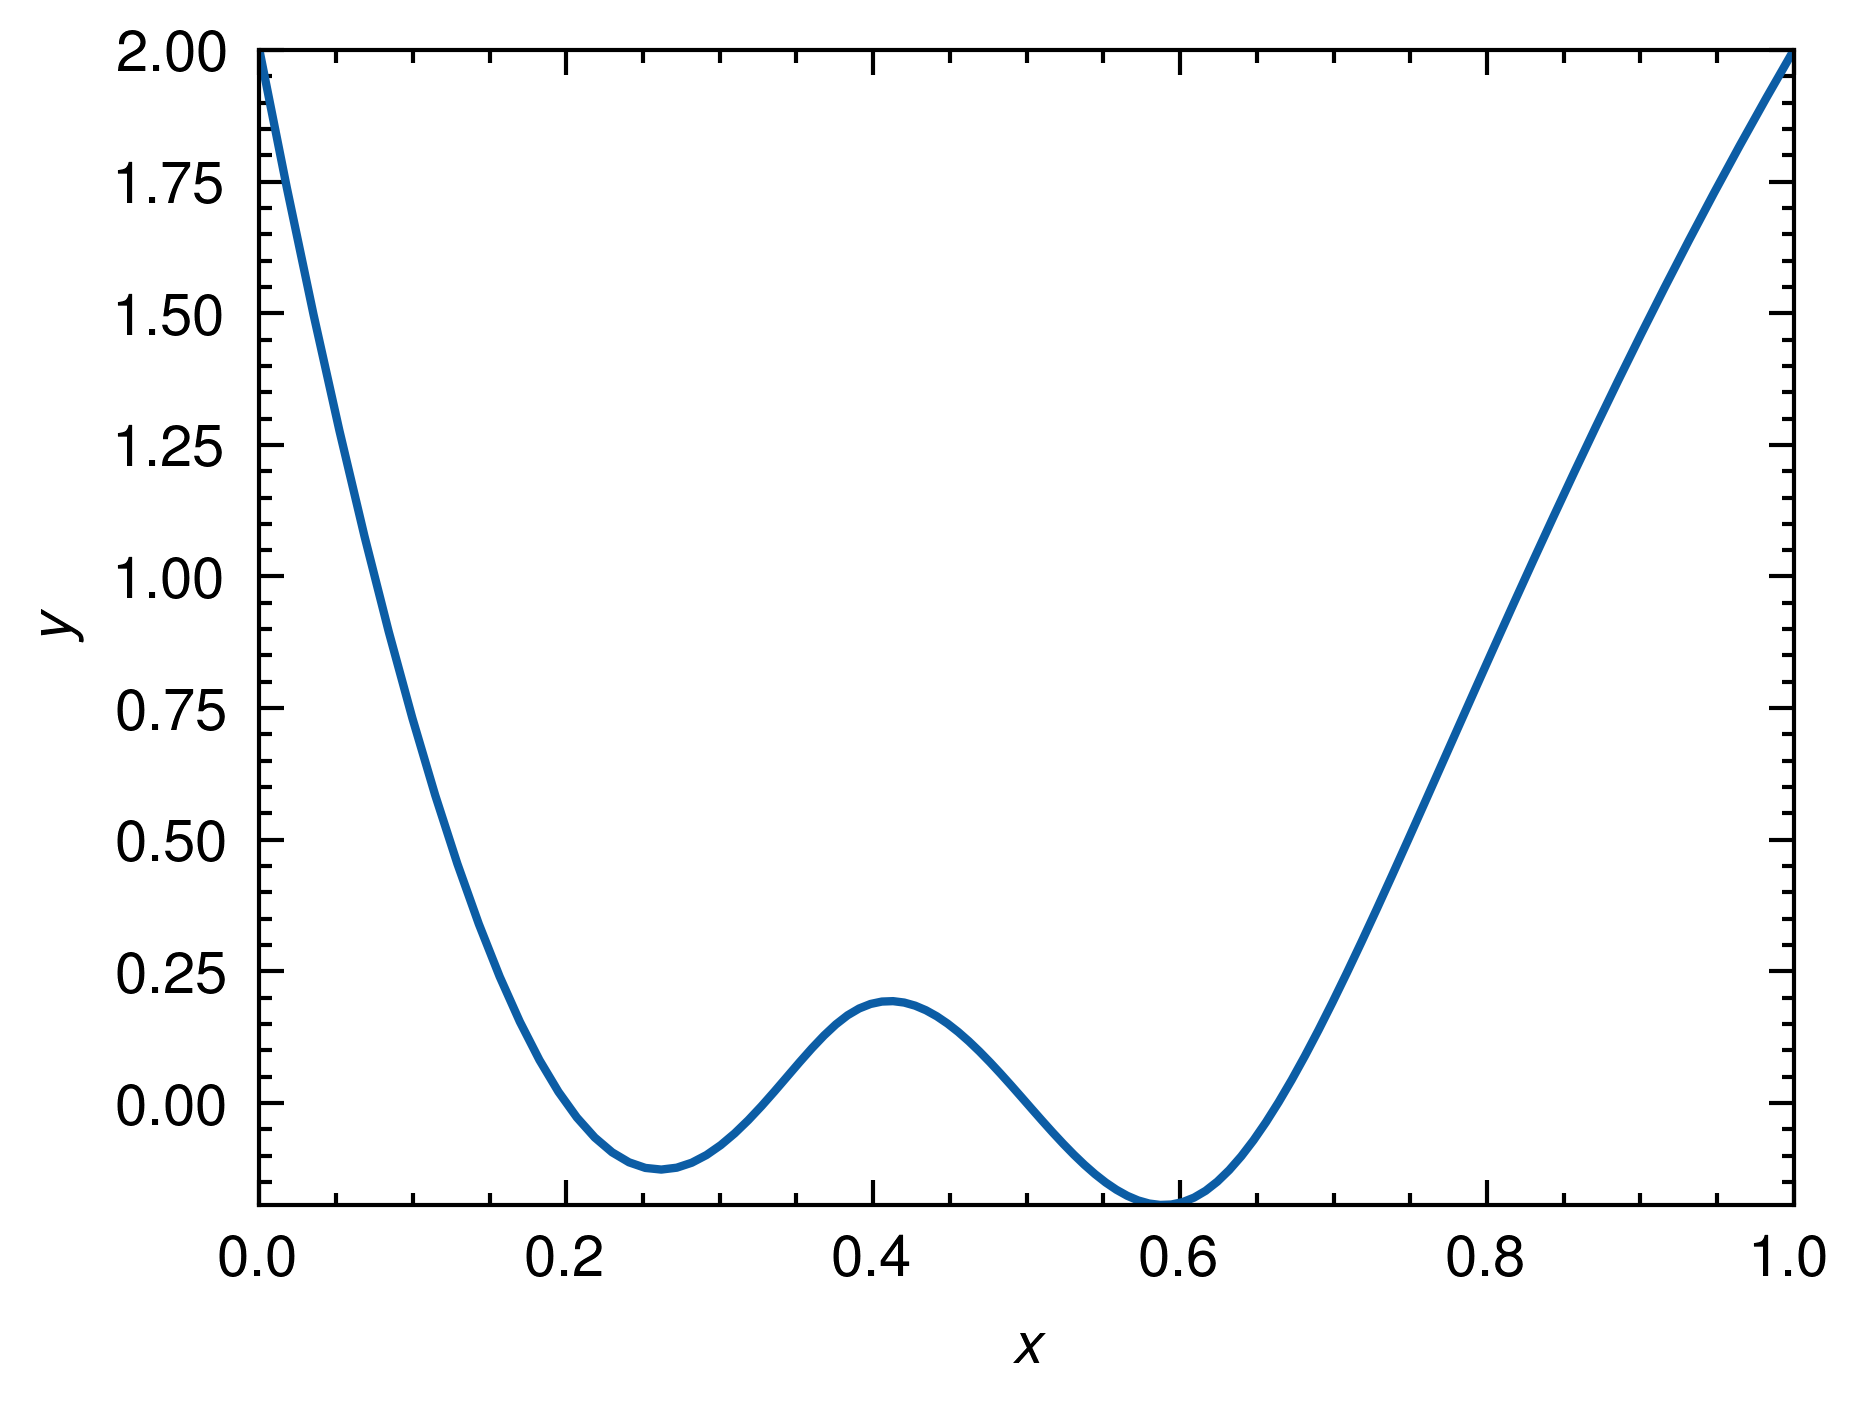
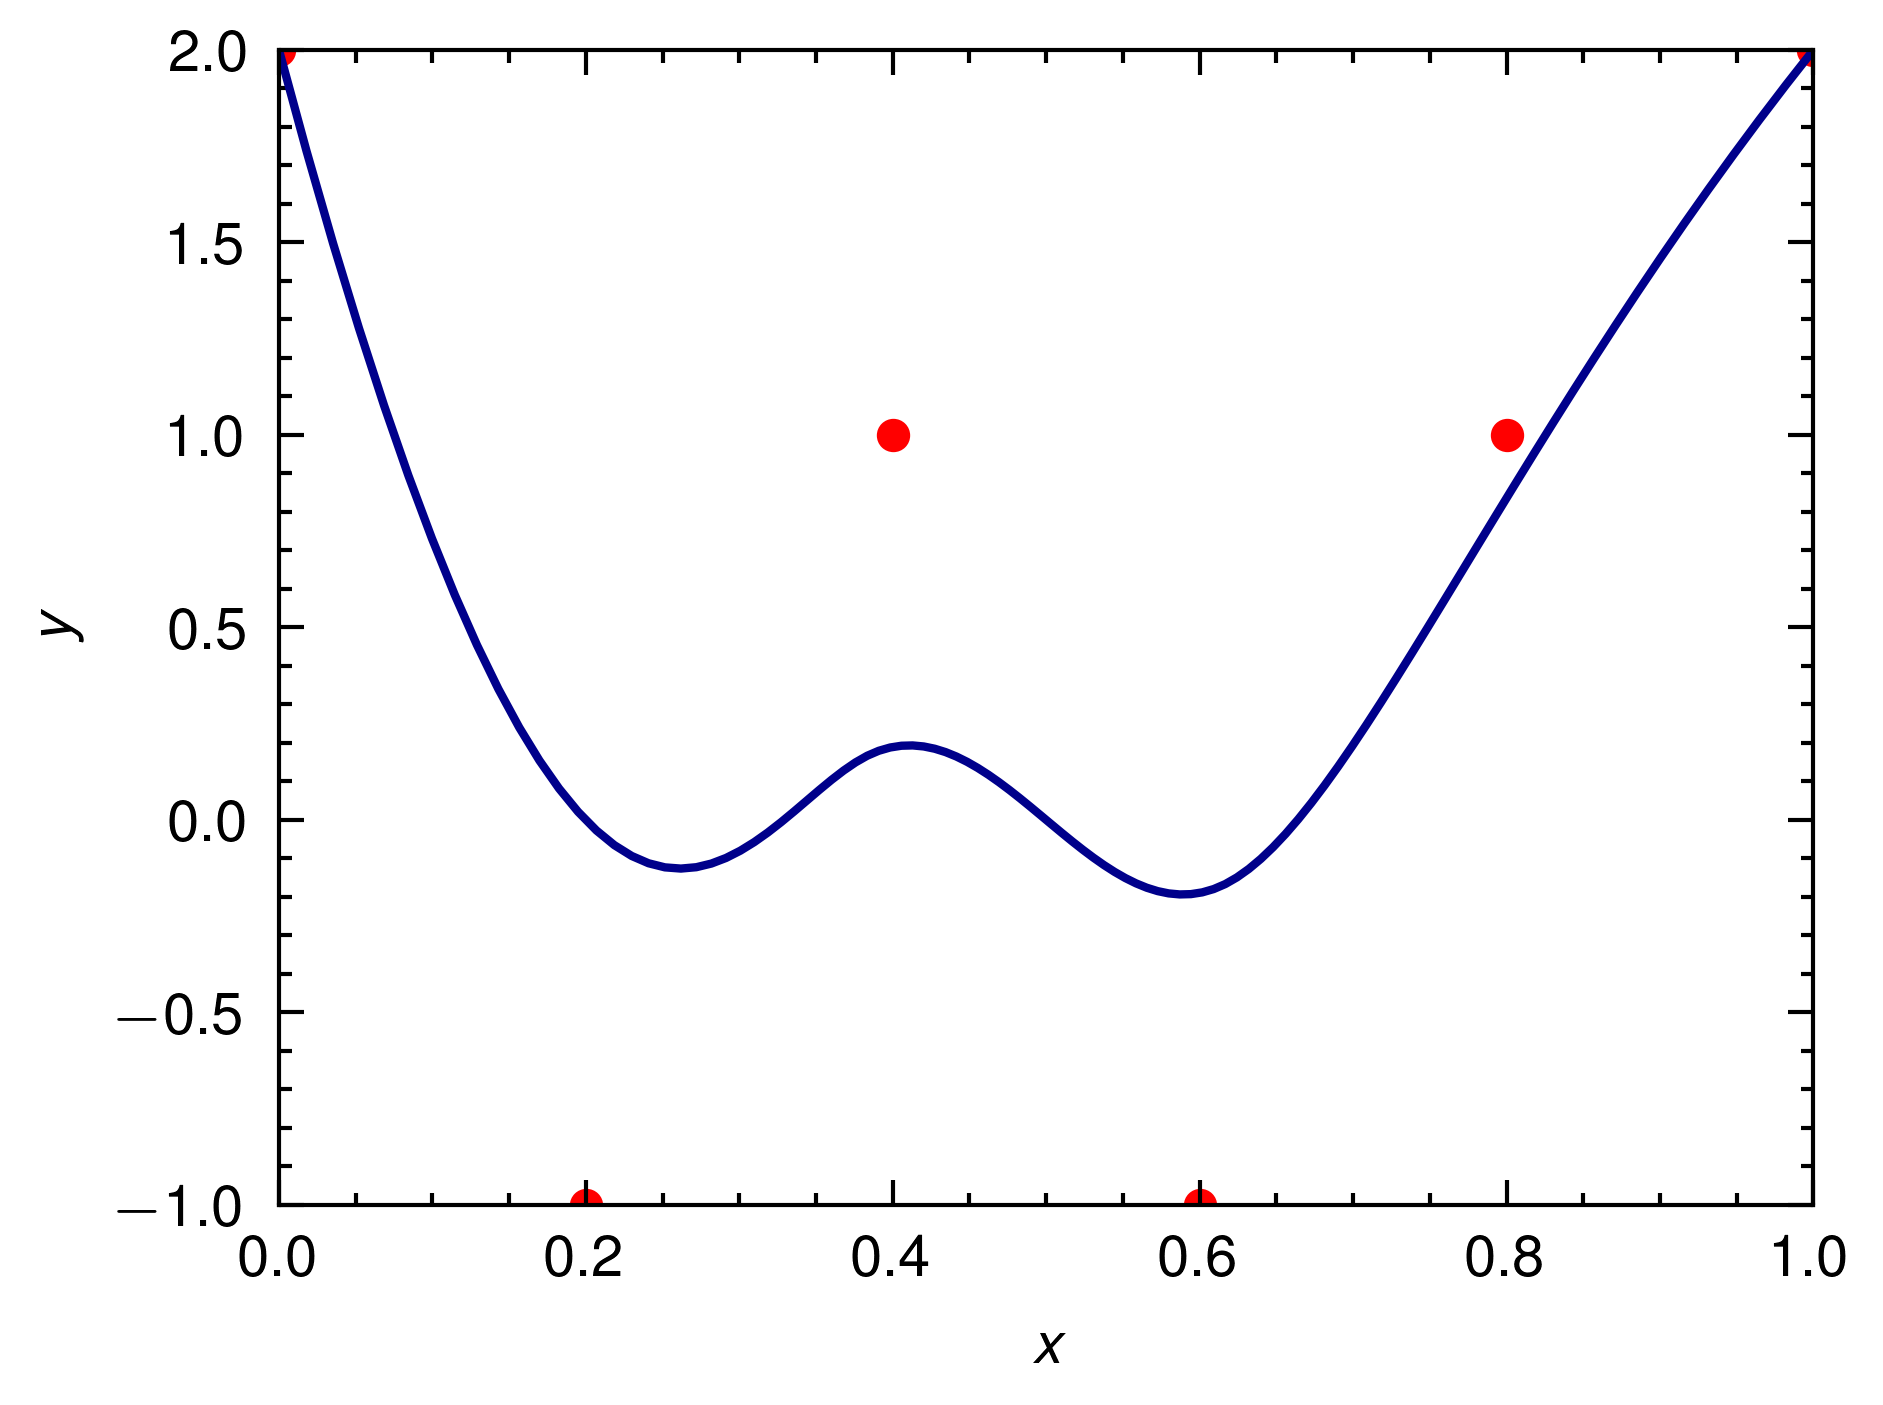
Add scatter

diff --git a/src/main.rs b/src/main.rs
@@ -134,9 +134,14 @@ impl BSpline {
 
     fn plot(&self) -> Result<()> {
         let (x, y) = self.interpolate();
+        let mat = py_matrix(self.control_points.clone());
+        let cx = mat.col(0);
+        let cy = mat.col(1);
         let mut plt = Plot2D::new();
-        plt.set_domain(x)
-            .insert_image(y)
+        plt.insert_pair((x.clone(), y.clone()))
+            .insert_pair((cx, cy))
+            .set_plot_type(vec![(1, PlotType::Scatter)])
+            .set_color(vec![(0, "darkblue"), (1, "red")])
             .set_xlabel(r"$x$")
             .set_ylabel(r"$y$")
             .set_style(PlotStyle::Nature)
